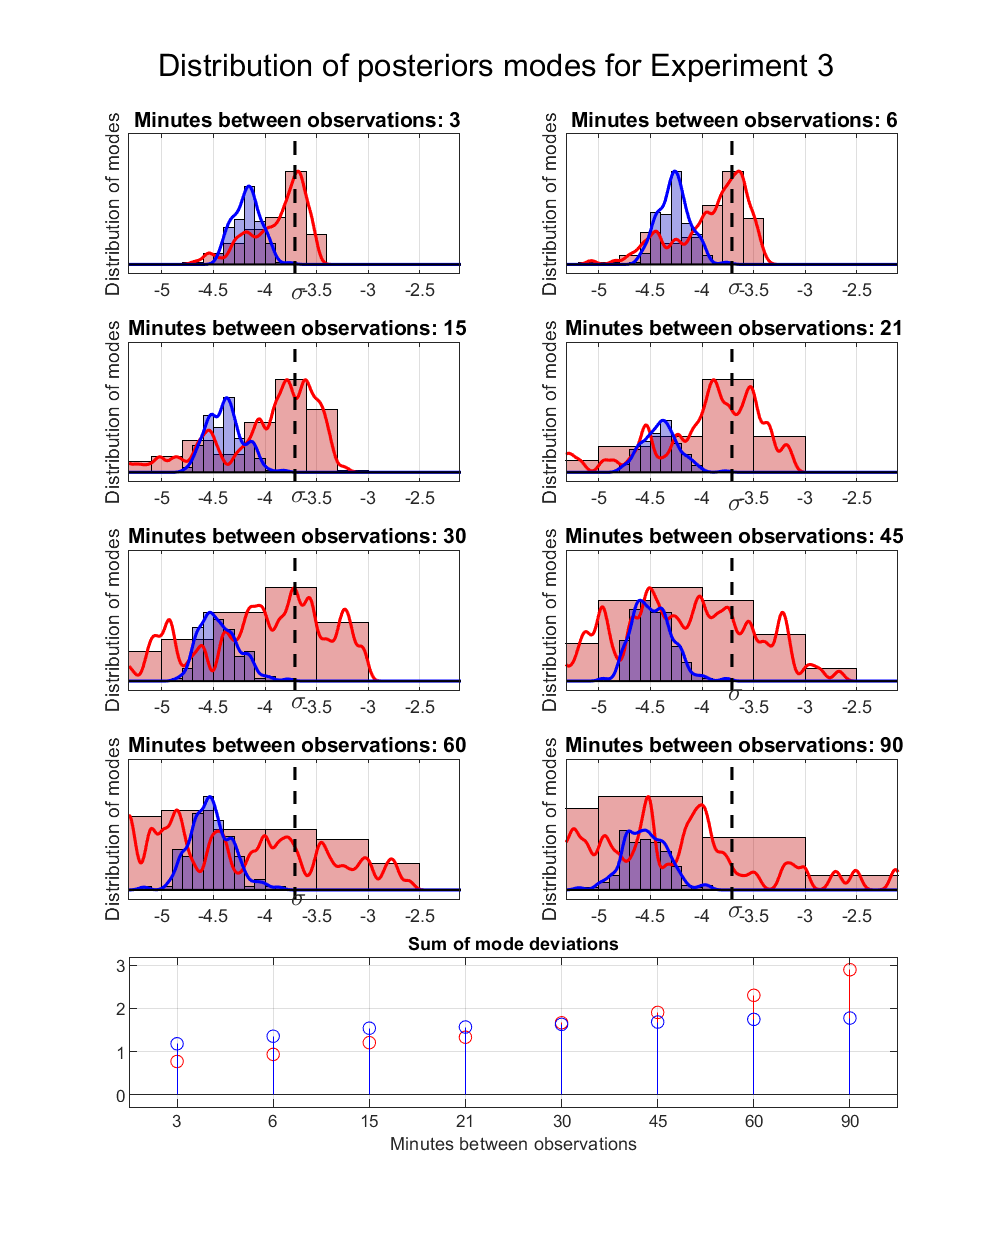
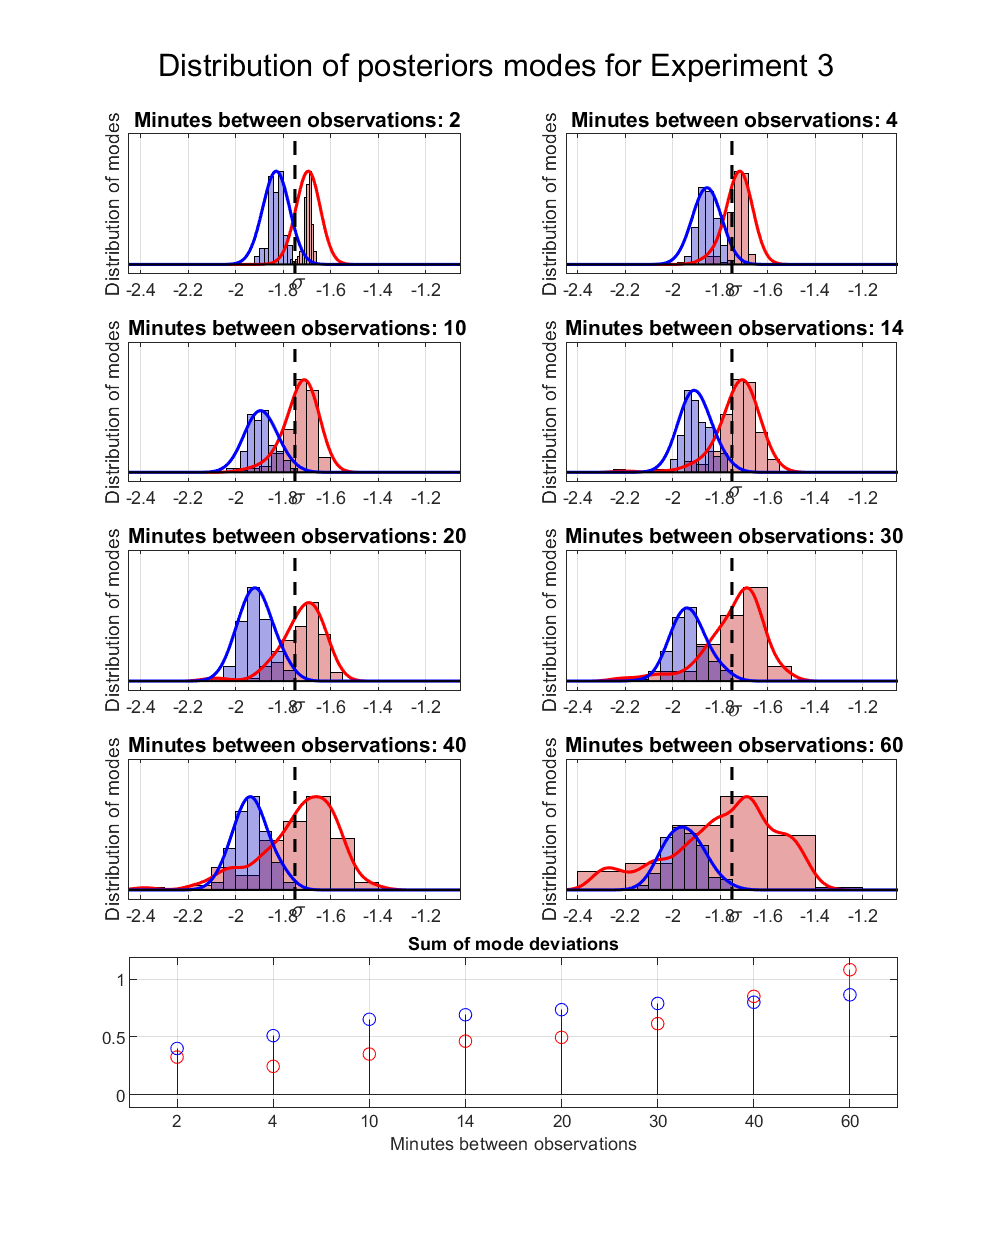
sss
sss

diff --git a/Diffusion/diffusion_main.m b/Diffusion/diffusion_main.m
@@ -13,7 +13,7 @@ td = [1 2 5 7 10 15 20 30];
 
 
 MF = 0; % do we want to assume that all sigma are equal when evaluating performance?
-for d = length(df):length(df)
+for d = 1:length(df)
     load([DataFolder '\' df(d).name])
 
     base_dt = observed_cells{end-1}(1);
@@ -89,9 +89,9 @@ for d = length(df):length(df)
         end
         for c = 1:length(td)
 
-            log_modes = log(sqrt(beta./(alpha)));
-            MSD_modes = log(sqrt(betaMSD./(alpha)));
-            IMP_modes = log(sqrt(betaIMP./(alpha)));
+            log_modes = log10(sqrt(beta./(alpha)));
+            MSD_modes = log10(sqrt(betaMSD./(alpha)));
+            IMP_modes = log10(sqrt(betaIMP./(alpha)));
             test = log_modes(:,c);
             test = test(~isnan(test));
             test1 = MSD_modes(:,c);
@@ -100,7 +100,7 @@ for d = length(df):length(df)
             test2 = test2(~isnan(test2));
             kern = @(x,r) normpdf(r,x,1/(length(log_modes))^(5/8));
             span = 5;
-            r = linspace(log((min(sig))/span),log((max(sig))*span),1001);
+            r = linspace(log10((min(sig))/span),log10((max(sig))*span),1001);
             y = zeros(size(r));
             y1 = y;
             y2 = y;
@@ -120,8 +120,8 @@ for d = length(df):length(df)
             %plot(r,max(h2.Values)*y2/max(y2),'g','LineWidth',1.5)
             M = [max(h0.Values) max(h1.Values) max(h1.Values)];
             axis([r(1) r(end) -0.1*max(M) 1.4*max(M)])
-            plot(log([min(sig) min(sig)]),[-0.1 1.4]*max(M),'k--','LineWidth',1.5)
-            plot(log([max(sig) max(sig)]),[-0.1 1.4]*max(M),'k--','LineWidth',1.5)
+            plot(log10([min(sig) min(sig)]),[-0.1 1.4]*max(M),'k--','LineWidth',1.5)
+            plot(log10([max(sig) max(sig)]),[-0.1 1.4]*max(M),'k--','LineWidth',1.5)
             plot(([r(1) r(end)]),[0 0],'k','LineWidth',1.0)
             %legend('Our method','MSD','Location','northwest')
             title( ['\fontsize{10} Minutes between observations: ' num2str(base_dt/60*td(c))])
@@ -154,6 +154,3 @@ for d = length(df):length(df)
     end
     disp(['Dataset ' num2str(d) ' is done!'])
 end
-
-%%
-observed_cells{end-1}(5:end-(length(observed_cells)-2))
